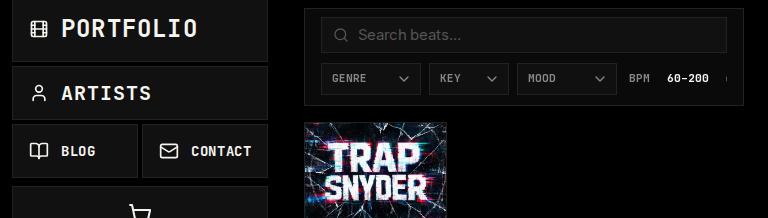
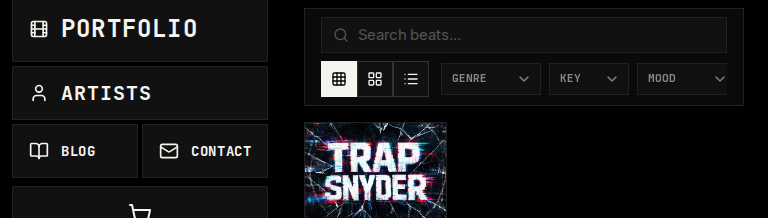
fix(14): sticky view-toggle left on mobile, reorders to end on desktop
On screens below xl (mobile + tablet), the view toggle (card/compact/
list) is now the first element in the scrollable filter row and
sticks to the left edge with a solid bg-[#0a0a0a] background so the
genre/key/mood/BPM chips scroll horizontally behind it. Much more
compact and the toggle is always reachable without scrolling.

On xl+ the sticky positioning is cleared and xl:order-[999] pushes
the toggle to the end of the single compact row — same desktop
layout as before.

Changed region(s): [[0.4062, 0.2752, 0.9375, 0.4679]]

diff --git a/src/components/beats/filter-bar.tsx b/src/components/beats/filter-bar.tsx
@@ -121,6 +121,12 @@ export function FilterBar({
         {/* Row 2: horizontal scroll at all sizes below xl (prevents clip on iPad);
             becomes inline siblings of Search on xl+ for a single compact row */}
         <div className="flex items-center gap-2 overflow-x-auto overflow-y-visible touch-pan-x [-webkit-overflow-scrolling:touch] [&::-webkit-scrollbar]:hidden xl:contents">
+          {/* View toggle: sticky-left on mobile/tablet so chips scroll behind it;
+              reorders to end on xl+ */}
+          <div className="sticky left-0 z-20 shrink-0 bg-[#0a0a0a] pr-2 -mr-1 xl:static xl:order-[999] xl:bg-transparent xl:pr-0 xl:mr-0">
+            <ViewToggle view={view} onViewChange={onViewChange} />
+          </div>
+
           {/* Genre Select */}
           <Select
             value={genre ?? undefined}
@@ -221,9 +227,6 @@ export function FilterBar({
               CLEAR FILTERS
             </button>
           )}
-
-          {/* View toggle */}
-          <ViewToggle view={view} onViewChange={onViewChange} />
         </div>
       </div>
     </div>
